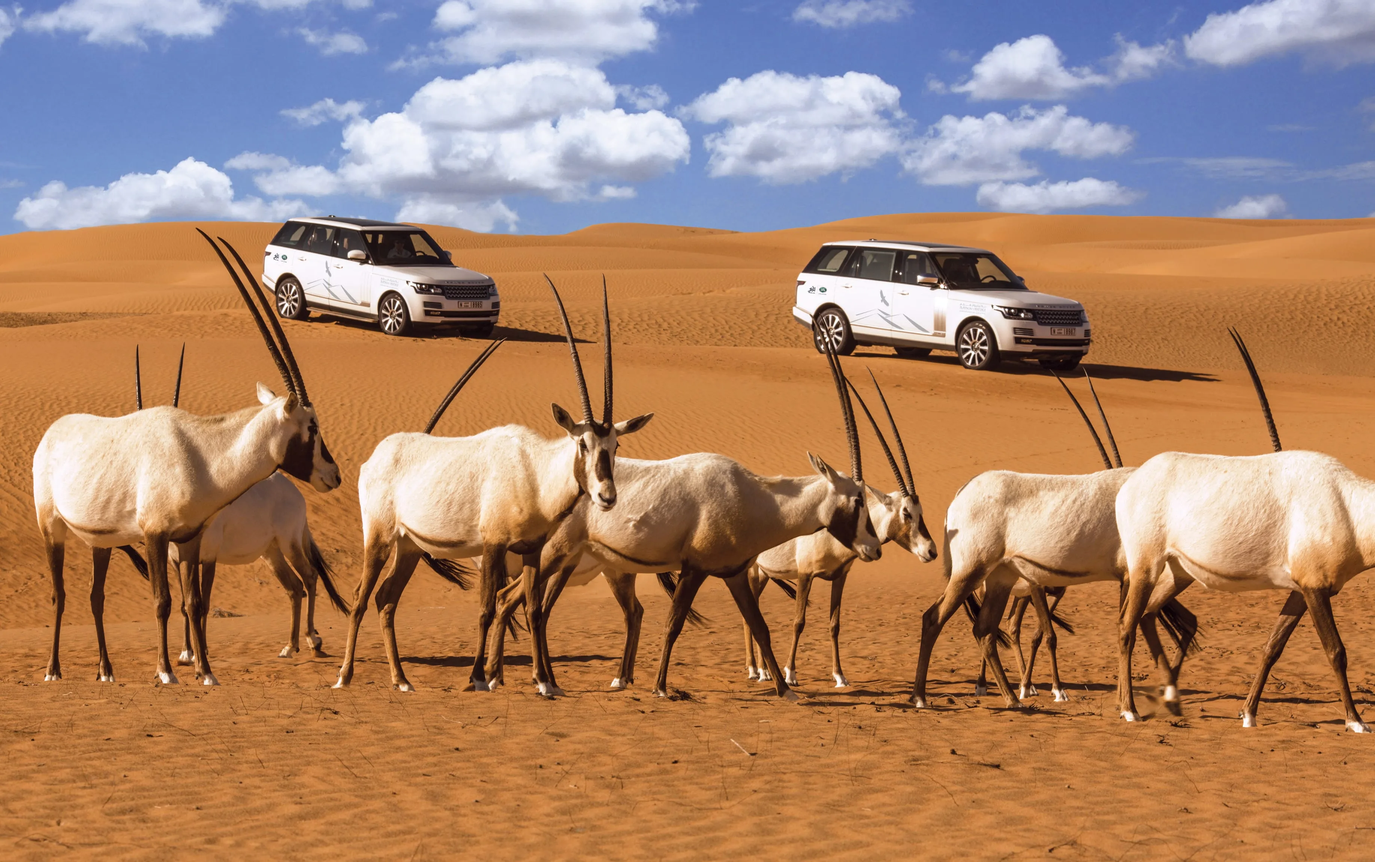
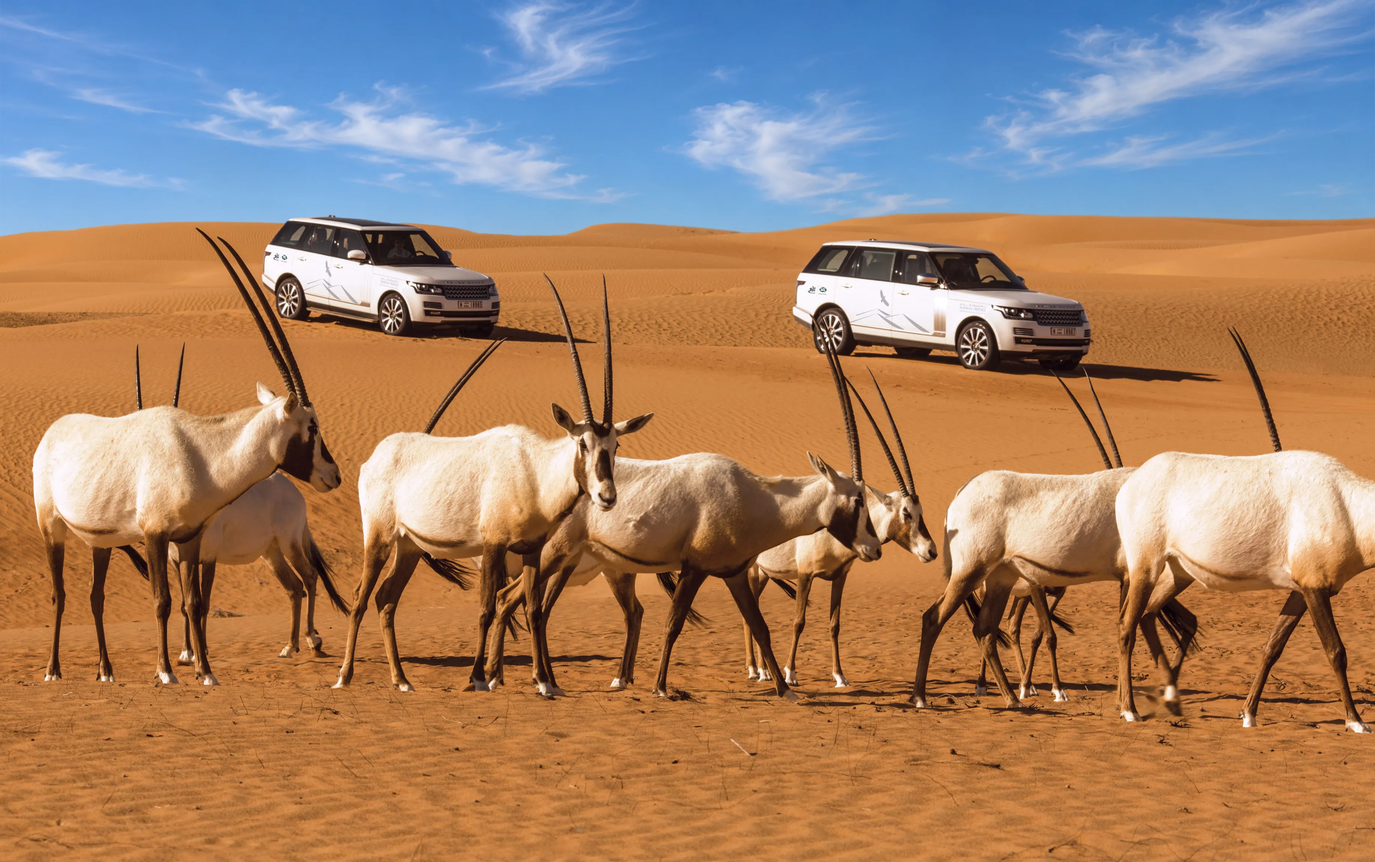
Images: replace Practice_RangeRovers + 03-5-arabia with new WebP; purge all source originals; Slide 4 text position lowered
- Convert new Practice_left_Range Rovers - Platinum.png → Practice_RangeRovers.webp
- Replace 03-5-arabia.webp with converted new JPG source
- Delete all non-WebP source files (Archive, Sample images, Newly added photos, Samples)
- Slide 4 (arabia): align-self: end on section__inner to push text lower on slide

Changed region(s): [[0.0, 0.0, 1.0, 0.2775]]

diff --git a/natgeo/index.html b/natgeo/index.html
@@ -205,7 +205,7 @@
       </aside>
     </div>
 
-    <div class="section__inner">
+    <div class="section__inner" style="align-self: end;">
       <div class="overlay overlay--lower-band">
         <h2 id="arabia-headline" class="headline headline--lg headline--bone">The desert is older than the city around it.</h2>
         <div class="body">
